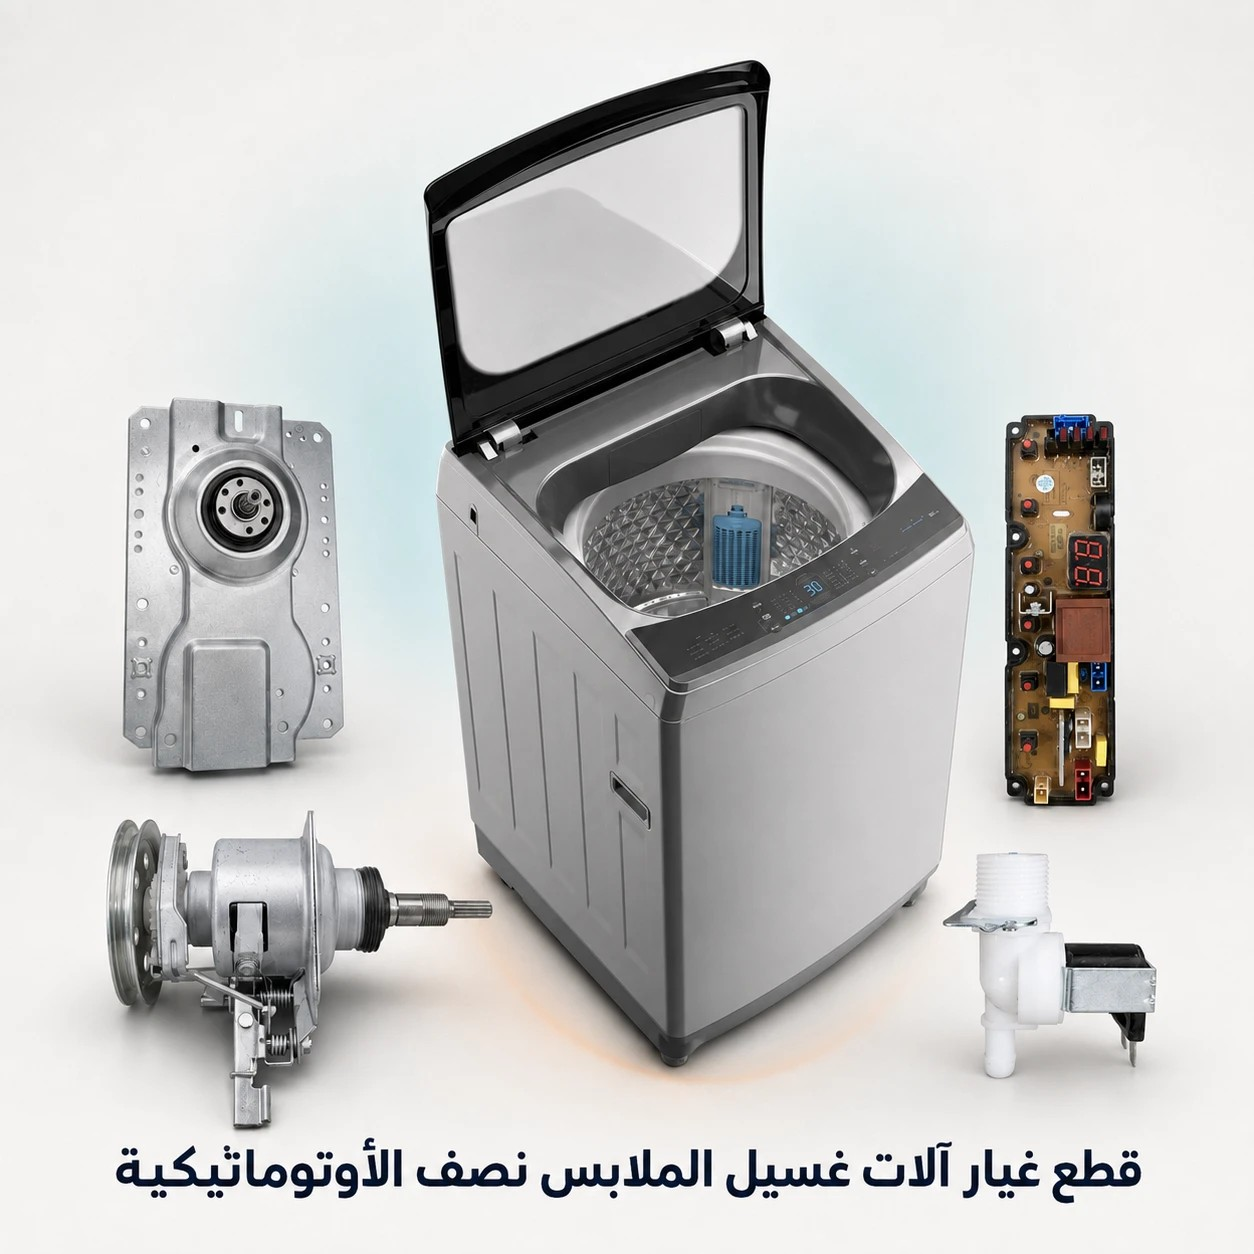
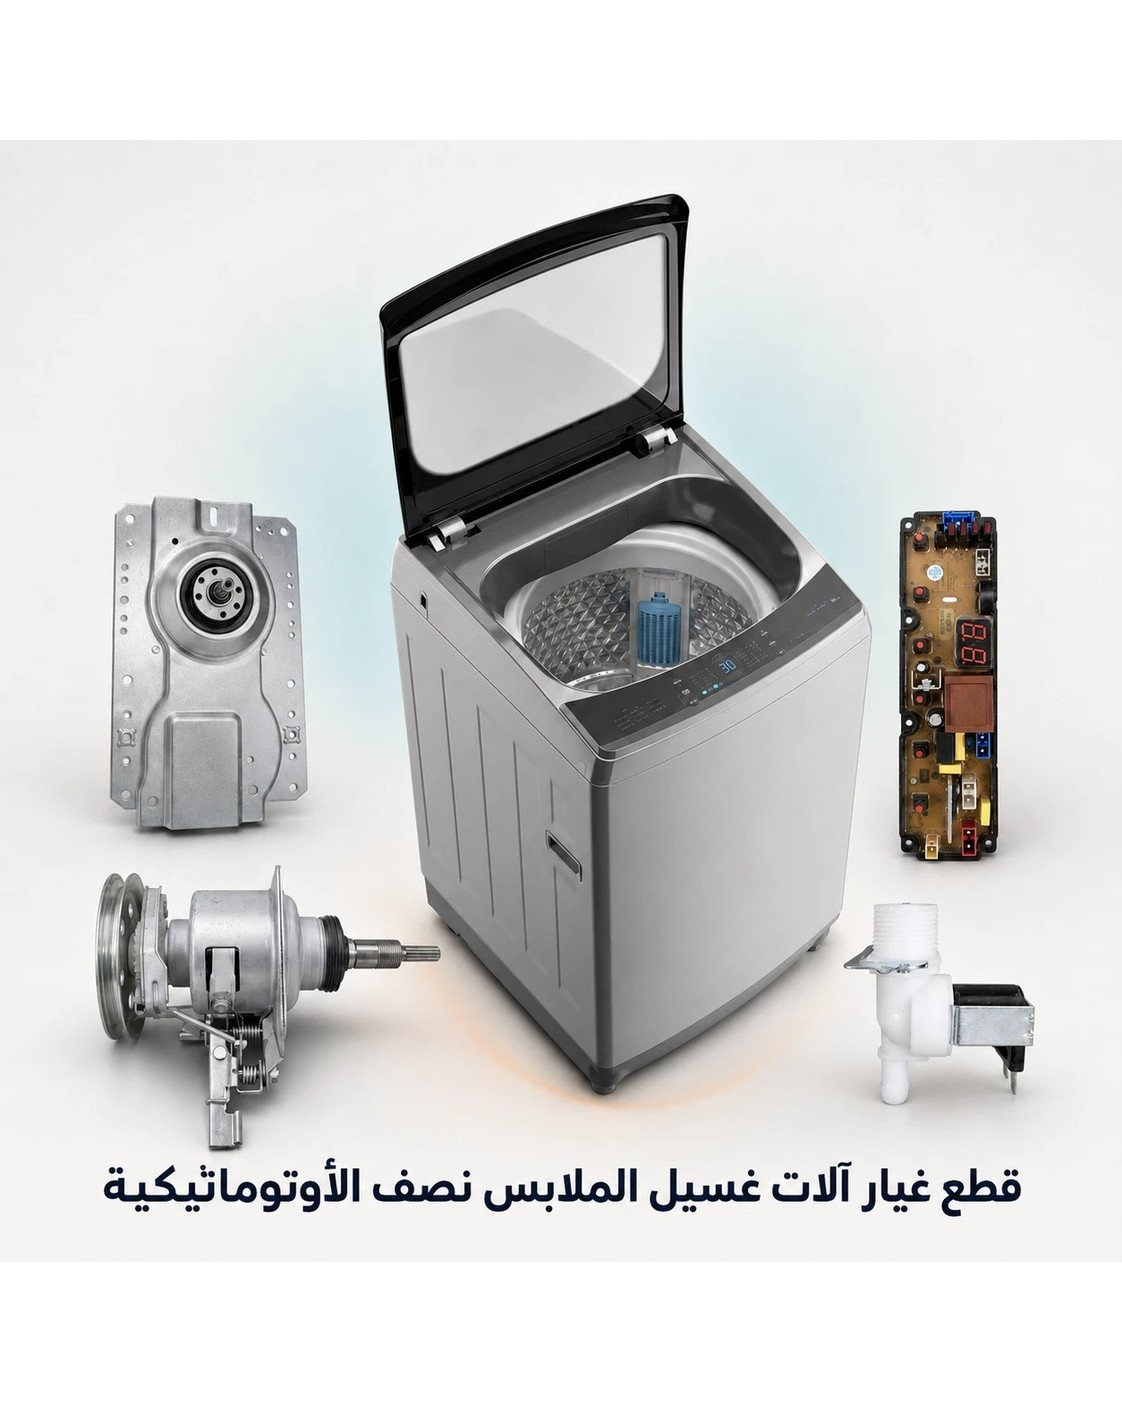
Unify all remaining category and product images to baseline JPEG
Follow-up to 703d65a: new device evidence (same image working on one
phone and broken on another, and the reverse for a different image on
the same pair of phones) rules out a defect isolated to one file — it
points to the site's mixed image formats/naming themselves, combined
with each device/CDN layer caching whatever it fetched first.

- public/categories/*.webp (10 remaining, all simple VP8 containers)
  converted to baseline JPEG; categoryImages.ts repointed. All 12
  category images are now baseline JPEG, 1122x1402, no ICC/EXIF.
- semi-automatic-washing-machine-parts.jpg (the one dimensional
  outlier at 1254x1254) resized/letterboxed to the same 1122x1402
  canvas as every other category image, for full consistency.
- public/product-images/TF-CK-* (18 dirs, cookware — same Arabic
  filename pattern as the earlier product-images-v3 batch) converted
  to baseline JPEG with ASCII <SKU>.jpg names.
- public/product-images/**/*.webp (15 secondary product images,
  already-ASCII names) converted to baseline JPEG, same base name.
- Migration extended to rewrite product_images.storage_path for both
  the TF-CK batch and the generic .webp case, alongside the existing
  product-images-v3 rule. Still must be applied to Production via
  `supabase db push`, same as every other migration here.
- Verified end-to-end locally: built and ran the app, confirmed the
  homepage HTML references the new /categories/*.jpg paths (200,
[…]

Changed region(s): [[0.0624, 0.0311, 0.9358, 0.9641], [0.0, 0.0, 0.0312, 0.0622], [0.3431, 0.4354, 0.3743, 0.4665]]

diff --git a/src/lib/categoryImages.ts b/src/lib/categoryImages.ts
@@ -5,27 +5,30 @@
 // لاحقاً. تصنيف واحد بلا صورة مخصَّصة بعد (البانيني) يستعمل الأيقونة
 // العامة (CategoryIcon) كما كان دائماً.
 //
-// صورتا "الأوتوماتيكية" و"نصف الأوتوماتيكية" تحديداً بصيغة .jpg وليس
-// .webp: ظهرتا كأيقونة "broken image" على هاتف أندرويد قديم حقيقي بينما كل
-// الصور الأخرى (.webp) تعمل بشكل طبيعي على نفس الهاتف — الفحص الثنائي أظهر
-// أن ملف "نصف الأوتوماتيكية" الأصلي كان WebP بحاوية VP8X الموسَّعة (تحمل
-// ملف تعريف ألوان ICC) بخلاف كل الصور الأخرى العاملة (حاوية VP8 البسيطة
-// فقط) — اختلاف بنيوي حقيقي فصيغة الترميز الداخلية، وليس مجرد الامتداد.
-// تحويلهما إلى JPEG أساسي (baseline) بدون ICC/EXIF يزيل هذا المتغيّر
-// كلياً (JPEG الأساسي مدعوم فكل جهاز/متصفح عملياً بلا استثناء تقريباً).
+// كل الصور موحَّدة الآن بصيغة .jpg (JPEG أساسي/baseline، بلا ICC/EXIF،
+// 1122×1402 موحَّدة): صورتا "الأوتوماتيكية" و"نصف الأوتوماتيكية" أول من
+// حُوِّلتا بعد ظهورهما كأيقونة "broken image" على هاتف أندرويد قديم
+// (الفحص الثنائي أظهر حاوية WebP من نوع VP8X موسَّعة تحمل ملف تعريف ألوان
+// ICC، بخلاف بقية الصور آنذاك بحاوية VP8 البسيطة). لاحقاً ظهر دليل أوسع:
+// نفس الصفحة تتصرف بشكل معكوس بين هاتف iPhone وآخر لصور مختلفة (صورة
+// تعمل على هاتف وتنكسر على آخر، والعكس لصورة أخرى) — نمط لا يفسّره عيب
+// بنيوي واحد فملف بعينه بقدر ما يفسّره التنسيق غير الموحَّد (WebP/JPEG
+// مختلطين) نفسه، ولذلك وُحِّدت كل الصور الـ12 لنفس القالب الآمن،
+// واستُبدلت أسماء ملفاتها (لا فقط صيغتها) لضمان طلب المتصفح رابطاً جديداً
+// كلياً بدل الاعتماد على أي نسخة مخبَّأة قديمة (cache) للرابط السابق.
 export const CATEGORY_IMAGES: Record<string, string> = {
-  "standard-washing-machine-parts": "/categories/standard-washing-machine-parts.webp",
+  "standard-washing-machine-parts": "/categories/standard-washing-machine-parts.jpg",
   "automatic-washing-machine-parts": "/categories/automatic-washing-machine-parts.jpg",
   "semi-automatic-washing-machine-parts": "/categories/semi-automatic-washing-machine-parts.jpg",
-  "refrigerator-spare-parts": "/categories/refrigerator-spare-parts.webp",
-  "freezer-spare-parts": "/categories/freezer-spare-parts.webp",
-  "split-ac-parts": "/categories/split-ac-parts.webp",
-  "blender-parts": "/categories/blender-parts.webp",
-  "pressure-cooker-parts": "/categories/pressure-cooker-parts.webp",
-  "gas-water-heater-parts": "/categories/gas-water-heater-parts.webp",
-  "electric-water-heater-parts": "/categories/electric-water-heater-parts.webp",
-  "gas-oven-parts": "/categories/gas-oven-parts.webp",
-  "electric-oven-parts": "/categories/electric-oven-parts.webp",
+  "refrigerator-spare-parts": "/categories/refrigerator-spare-parts.jpg",
+  "freezer-spare-parts": "/categories/freezer-spare-parts.jpg",
+  "split-ac-parts": "/categories/split-ac-parts.jpg",
+  "blender-parts": "/categories/blender-parts.jpg",
+  "pressure-cooker-parts": "/categories/pressure-cooker-parts.jpg",
+  "gas-water-heater-parts": "/categories/gas-water-heater-parts.jpg",
+  "electric-water-heater-parts": "/categories/electric-water-heater-parts.jpg",
+  "gas-oven-parts": "/categories/gas-oven-parts.jpg",
+  "electric-oven-parts": "/categories/electric-oven-parts.jpg",
 };
 
 export function getCategoryImage(slug: string): string | null {
